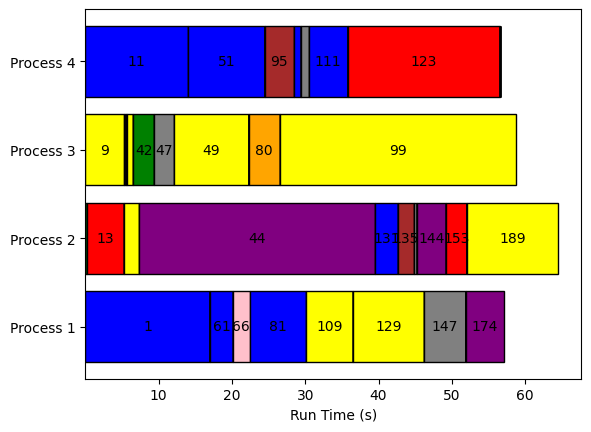
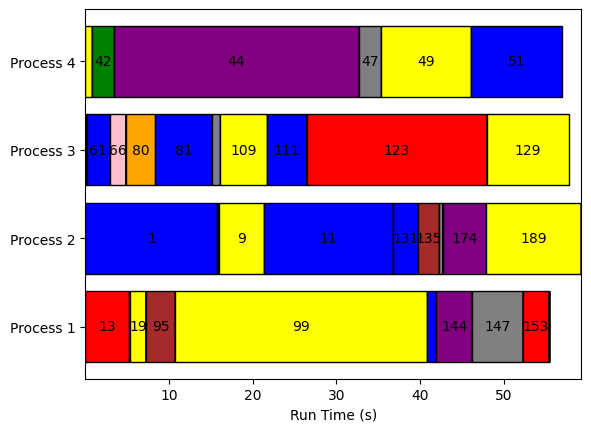
Removed chunksize argument

diff --git a/06_cell_population_example/pool_version.py b/06_cell_population_example/pool_version.py
@@ -128,7 +128,7 @@ def run_multiple_realisations(n_initial, reproduction_probability, mean_lifetime
     arguments = [(n_initial, reproduction_probability, mean_lifetime, output_times, i) for i in range(n_realisations)]
 
     with multiprocessing.Pool(4) as p:
-        output_list = p.map(run_realisation_interface, arguments, chunksize=1)
+        output_list = p.map(run_realisation_interface, arguments)
 
     # Make a 2D array to store the populations of each realisation at each time
     output_populations = np.array([output[0] for output in output_list])
